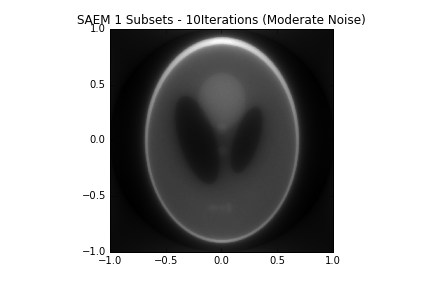
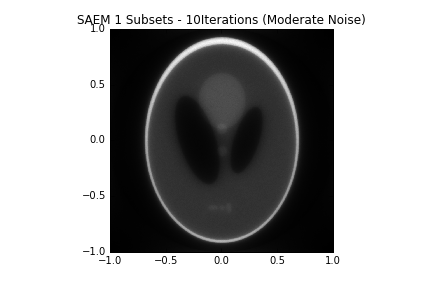
3rd commit today
Luis, step up your game.

diff --git a/SAEM.py b/SAEM.py
@@ -53,7 +53,7 @@ if __name__ == "__main__":
     # initialize 
     N = 10 # Number of iterations
     M = 1
-    #x = np.zeros((row,row)) * ( np.sum(counts) / np.sum( fast_radon( np.ones((row,col)) ) ) )
+    #x = np.ones((row,row)) * ( np.sum(counts) / np.sum( fast_radon( np.ones((row,col)) ) ) )
     x = np.ones((row,row))*0.1
     # Preallocate parameters    
     T = np.zeros((N,1))
@@ -63,11 +63,11 @@ if __name__ == "__main__":
     start_time = time.time()
     row,col = x.shape
 
-    lam = 2*10**(0)#2.5*10**(-3)
+    lam =1*10**(1)#2.5*10**(-3)
     lam0 = lam
     tau = 10**(-14)#1.1*10**(-4)
 
-    R = flat*np.exp(-fast_radon(x))
+    R = fast_transp(flat*np.exp(-fast_radon(x)))
     pj = R
     D = np.zeros((row,col))
     print('pj', pj)

diff --git a/FISTA.py b/FISTA.py
@@ -32,7 +32,7 @@ def importPhoto():
 # Function used to import sinogram data and radon function for data
 def importSino():
 	# sino = pr.image_read( 'egg_slice_1097.mat' ) 
-	sl = pr.image_read( 'sl.mat' ) 
+	sl = pr.image_read( 'TomoData/PhantomData/sl.mat') 
 	# sino = pr.image_read( 'slcount.mat', dtype=np.float32 ) 
 	# flat = pr.image_read( 'slflat.mat', dtype=np.float32  ) 
 	# dark = pr.image_read( 'sldark.mat', dtype=np.float32  )
@@ -102,7 +102,7 @@ t = 1
 count = 0
 x = y 
 
-itr = 20
+itr = 10
 T = np.zeros((itr,1))
 obj = np.zeros((itr,1))
 SSIM = np.zeros((itr,1))
